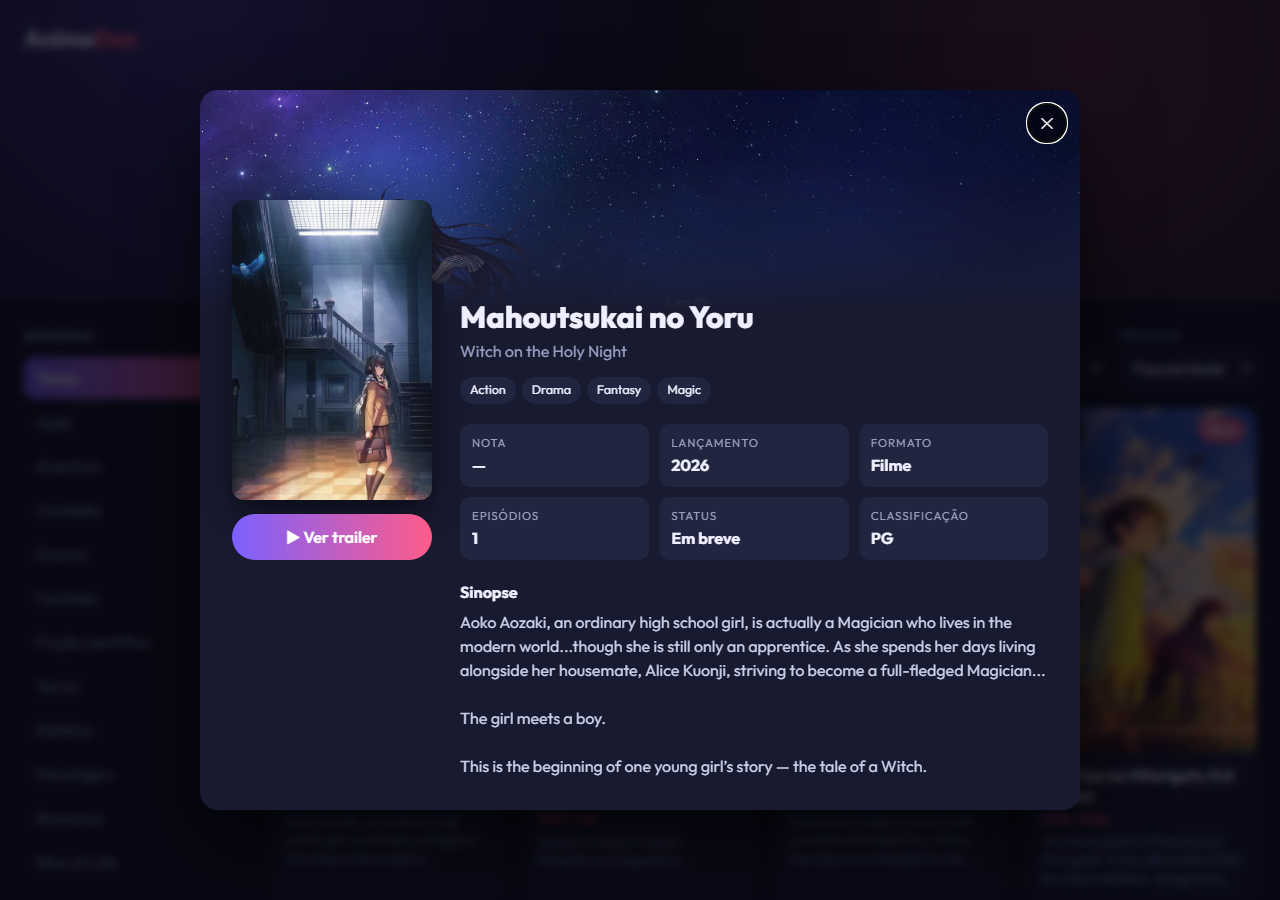
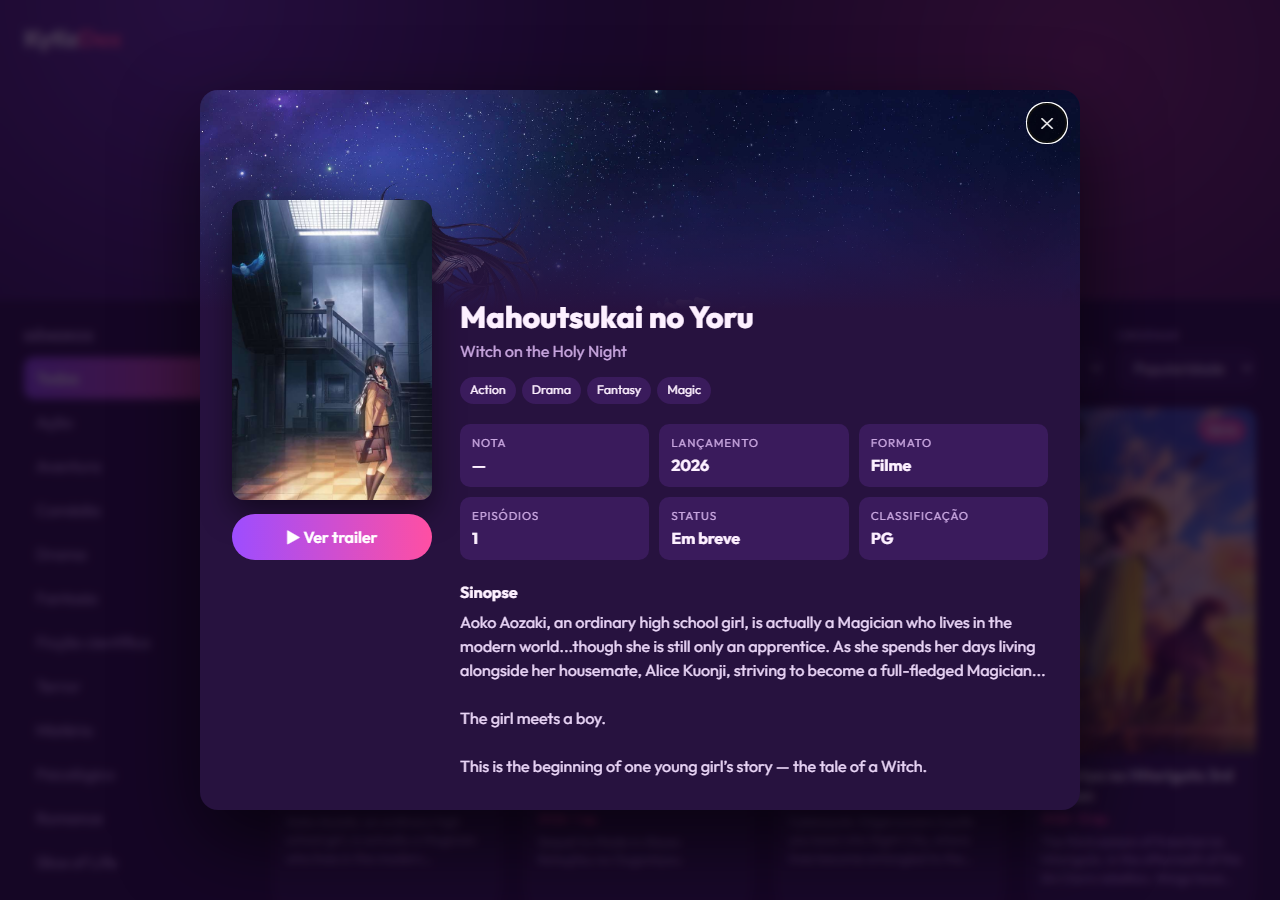
Renomeia para KytizDex e aplica paleta rosa e roxo

diff --git a/style.css b/style.css
@@ -1,11 +1,11 @@
 :root {
-  --bg: #0f1020;
-  --surface: #181a30;
-  --surface-2: #22253f;
-  --text: #eef0ff;
-  --muted: #9aa0c3;
-  --accent: #ff5c8a;
-  --accent-2: #7b61ff;
+  --bg: #1a0b2e;
+  --surface: #27123f;
+  --surface-2: #3a1b5c;
+  --text: #fdf0ff;
+  --muted: #c9a7e0;
+  --accent: #ff4fa3;
+  --accent-2: #9d4dff;
   --gold: #ffc94d;
   --radius: 14px;
 }
@@ -28,8 +28,8 @@ button, input, select { font: inherit; }
 .hero {
   padding: 20px 24px 56px;
   background:
-    radial-gradient(circle at 15% 0%, rgba(123, 97, 255, .45), transparent 45%),
-    radial-gradient(circle at 85% 20%, rgba(255, 92, 138, .35), transparent 45%),
+    radial-gradient(circle at 15% 0%, rgba(157, 77, 255, .55), transparent 45%),
+    radial-gradient(circle at 85% 20%, rgba(255, 79, 163, .45), transparent 45%),
     var(--bg);
   border-bottom: 1px solid rgba(255, 255, 255, .06);
 }
@@ -44,14 +44,14 @@ button, input, select { font: inherit; }
 .search__icon { position: absolute; left: 18px; font-size: 1.4rem; color: var(--muted); pointer-events: none; }
 .search__input {
   width: 100%; padding: 16px 92px 16px 52px; border-radius: 999px;
-  border: 2px solid transparent; background: #fff; color: #1a1a2e; font-size: 1.05rem;
+  border: 2px solid transparent; background: #fff; color: #2a1240; font-size: 1.05rem;
   box-shadow: 0 10px 30px rgba(0, 0, 0, .35);
   transition: border-color .15s;
 }
 .search__input:focus { outline: none; border-color: var(--accent); }
 .search__input::-webkit-search-cancel-button { display: none; }
-.search__clear { position: absolute; right: 52px; border: 0; background: #eceef7; color: #555; width: 28px; height: 28px; border-radius: 50%; cursor: pointer; }
-.search__kbd { position: absolute; right: 18px; border: 1px solid #d5d8e8; border-radius: 6px; padding: 0 8px; color: #8a8fa8; font-family: inherit; font-size: .85rem; }
+.search__clear { position: absolute; right: 52px; border: 0; background: #f6e6f7; color: #7a3f8f; width: 28px; height: 28px; border-radius: 50%; cursor: pointer; }
+.search__kbd { position: absolute; right: 18px; border: 1px solid #ecc9ef; border-radius: 6px; padding: 0 8px; color: #a56cb8; font-family: inherit; font-size: .85rem; }
 
 /* Layout principal */
 .layout { display: grid; grid-template-columns: 220px 1fr; gap: 28px; max-width: 1280px; margin: 0 auto; padding: 28px 24px 48px; }
@@ -93,7 +93,7 @@ button, input, select { font: inherit; }
   backdrop-filter: blur(6px);
 }
 .card__rating { left: 10px; background: rgba(0, 0, 0, .7); color: var(--gold); }
-.card__type { right: 10px; background: rgba(255, 92, 138, .9); color: #fff; }
+.card__type { right: 10px; background: rgba(255, 79, 163, .92); color: #fff; }
 .card__body { padding: 12px 14px 16px; display: grid; gap: 4px; }
 .card__title { margin: 0; font-size: 1rem; font-weight: 700; line-height: 1.25; display: -webkit-box; -webkit-line-clamp: 2; line-clamp: 2; -webkit-box-orient: vertical; overflow: hidden; }
 .card__meta { margin: 0; color: var(--accent); font-size: .8rem; font-weight: 600; }
@@ -101,7 +101,7 @@ button, input, select { font: inherit; }
 
 .card--skeleton { cursor: default; animation: none; }
 .card--skeleton .card__poster, .card__line {
-  background: linear-gradient(90deg, var(--surface-2) 0%, #2c3052 50%, var(--surface-2) 100%);
+  background: linear-gradient(90deg, var(--surface-2) 0%, #4c2477 50%, var(--surface-2) 100%);
   background-size: 200% 100%; animation: shimmer 1.2s linear infinite;
 }
 .card__line { height: 12px; margin: 14px 14px 0; border-radius: 6px; }
@@ -126,7 +126,7 @@ button, input, select { font: inherit; }
 
 /* Modal */
 .modal { position: fixed; inset: 0; z-index: 50; display: grid; place-items: center; padding: 20px; }
-.modal__overlay { position: absolute; inset: 0; background: rgba(5, 6, 15, .75); backdrop-filter: blur(4px); opacity: 0; transition: opacity .2s; }
+.modal__overlay { position: absolute; inset: 0; background: rgba(20, 5, 35, .78); backdrop-filter: blur(4px); opacity: 0; transition: opacity .2s; }
 .modal__dialog {
   position: relative; width: min(880px, 100%); max-height: calc(100vh - 40px); overflow-y: auto;
   background: var(--surface); border-radius: 18px; box-shadow: 0 30px 80px rgba(0, 0, 0, .6);
@@ -156,7 +156,7 @@ button, input, select { font: inherit; }
 .info__label { font-size: .72rem; text-transform: uppercase; letter-spacing: .08em; color: var(--muted); }
 .info__value { margin: 2px 0 0; font-weight: 700; }
 .detail__subtitle { margin: 0 0 6px; font-size: 1rem; }
-.detail__synopsis { margin: 0; color: #cdd1ec; white-space: pre-line; }
+.detail__synopsis { margin: 0; color: #ead6f7; white-space: pre-line; }
 
 .spinner { width: 44px; height: 44px; margin: 80px auto; border-radius: 50%; border: 4px solid var(--surface-2); border-top-color: var(--accent); animation: spin .8s linear infinite; }
 

diff --git a/index.html b/index.html
@@ -4,7 +4,7 @@
   <meta charset="UTF-8">
   <meta name="viewport" content="width=device-width, initial-scale=1.0">
   <meta name="description" content="Catálogo dinâmico de animes com busca, filtros por gênero e detalhes, consumindo a API pública da Kitsu.">
-  <title>AnimeDex · Catálogo de Animes</title>
+  <title>KytizDex · Catálogo de Animes</title>
   <link rel="preconnect" href="https://fonts.googleapis.com">
   <link rel="preconnect" href="https://fonts.gstatic.com" crossorigin>
   <link href="https://fonts.googleapis.com/css2?family=Outfit:wght@400;500;600;700;800&display=swap" rel="stylesheet">
@@ -13,7 +13,7 @@
 <body>
   <header class="hero">
     <div class="hero__top">
-      <a class="logo" href="./">Anime<span>Dex</span></a>
+      <a class="logo" href="./">Kytiz<span>Dex</span></a>
       <button type="button" class="menu-toggle" id="menu-toggle" aria-expanded="false" aria-controls="sidebar">☰ Gêneros</button>
     </div>
     <div class="hero__center">

diff --git a/README.md b/README.md
@@ -1,4 +1,4 @@
-# AnimeDex · Catálogo Dinâmico de Animes
+# KytizDex · Catálogo Dinâmico de Animes
 
 Catálogo de animes que consome uma **API pública** para buscar, filtrar e exibir títulos em tempo real, com modal de detalhes, tudo sem recarregar a página. Inspirado na interface do MyAnimeList e da Pokédex.org.
 
